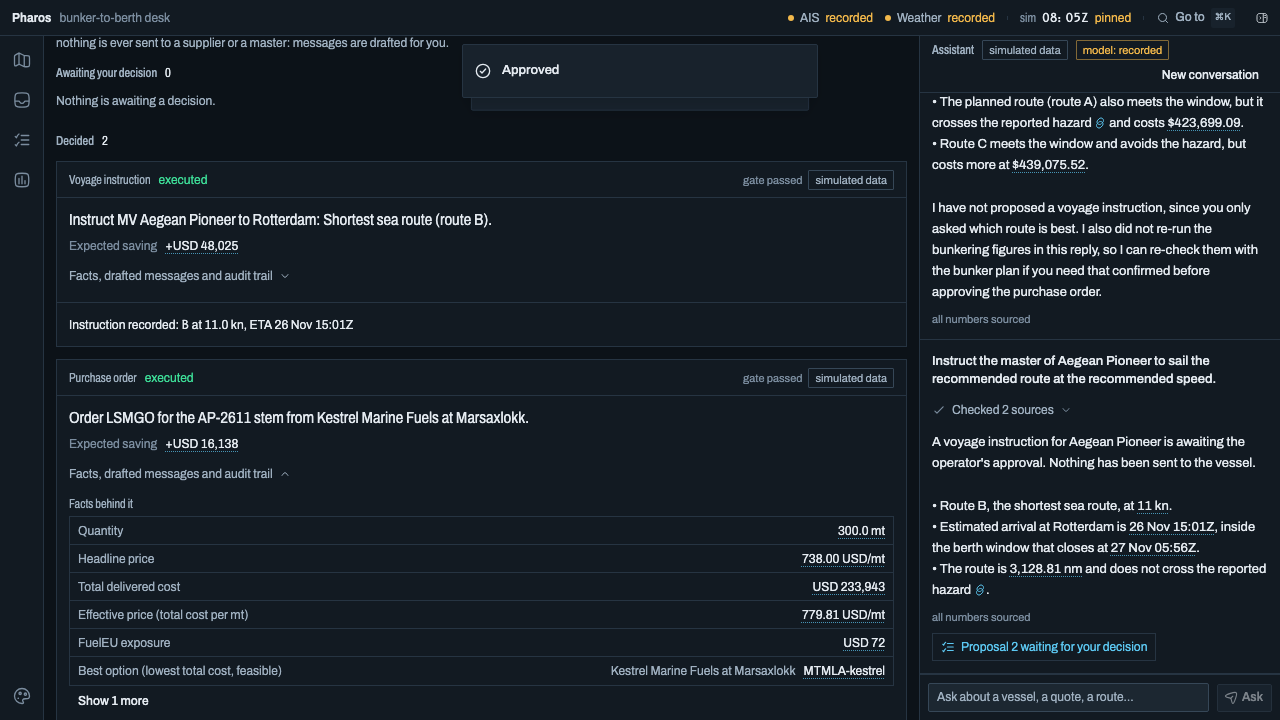
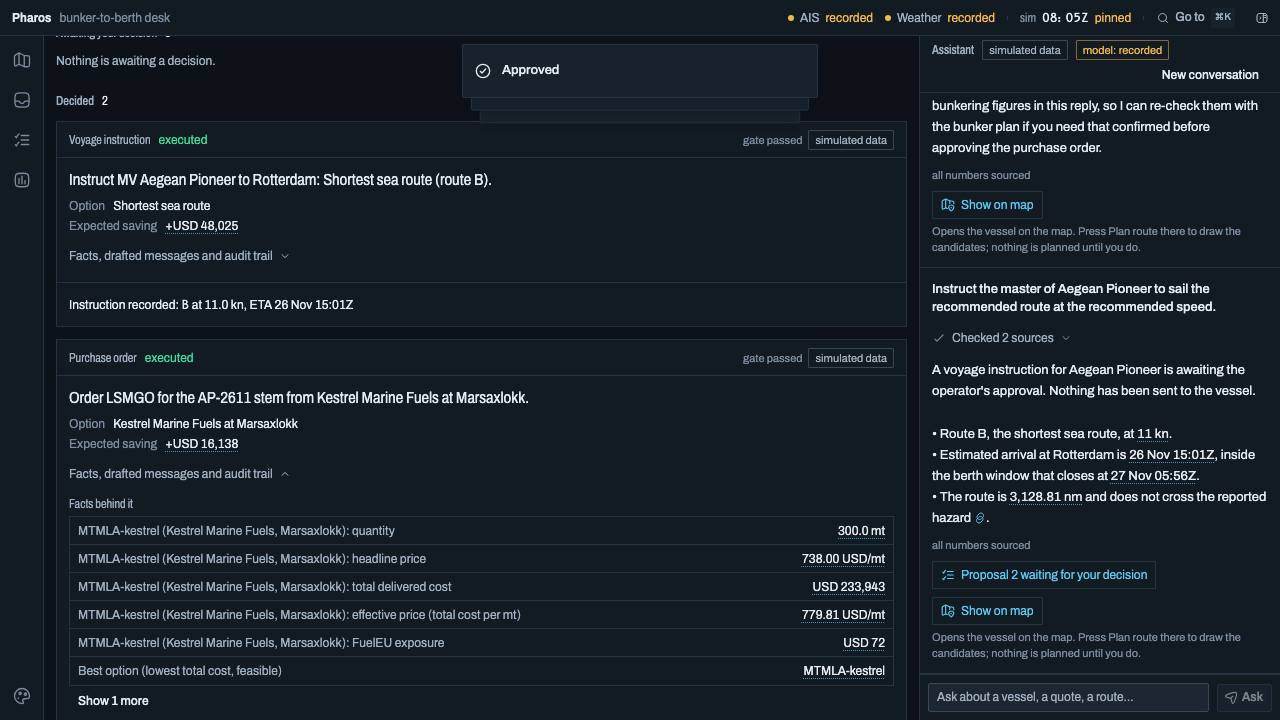
Wave 1 gate: MASTER_PLAN change log, story screenshots refreshed
verify green (148 files, 3079 pass); dev replays of both suites identical to the
wave baseline, 0 replay misses; frozen paths unchanged since 59b8c5b; golden
sets clean; recorded story PASS x2 (17.2 s) on rebuilt images.

diff --git a/docs/MASTER_PLAN.md b/docs/MASTER_PLAN.md
@@ -474,4 +474,6 @@ You add keys to `.env` yourself; I never handle or print them. When a checkpoint
 
 **2026-11-16, Phase 7 (lead ruling):** Docker Compose now defaults to the recorded, pinned demo (`LLM_MODE` replay, `DEMO_ANCHOR` 2026-11-14T08:00:00Z, recorded AIS and weather), so a fresh clone runs with no key; `npm run demo:live` is the explicit switch to live and `npm run demo:reset` the one switch back.
 
+**2026-11-17, wave 1 after the prototype (user decision: "Plan wave 1", "Subagent-driven"):** the architecture review (`docs/ARCHITECTURE_REVIEW.md`) gave each fact one pure builder in `apps/api/src/facts/`, shared by the agent tool and the read view. The API now returns what the console used to work out itself: option names, the cited saving, vessel facts, forecast step times, ask subjects, progress call ids, and expected-zero flags. Tool registration, failure classification, the pinned clock and the seed each have one home, and `now` is required. No byte sent to the model changed, so the recorded replies and the published benchmark stand. The plan is `docs/superpowers/plans/2026-11-17-wave-1-facts-and-contracts.md`.
+
 **Sources checked:** [AISStream documentation](https://aisstream.io/documentation) · [Open-Meteo Marine API](https://open-meteo.com/en/docs/marine-weather-api) · [searoute-ts](https://www.pkgstats.com/pkg:searoute-ts) · [@ssroute/typescript](https://www.pkgstats.com/pkg:@ssroute/typescript) · [Eurostat searoute](https://github.com/eurostat/searoute) · [Mediterranean sulphur zone (REMPEC)](https://www.rempec.org/en/news-media/rempec-news/effective-application-of-the-med-sox-emission-control-area-under-marpol-annex-vi)
